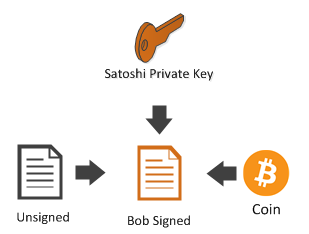
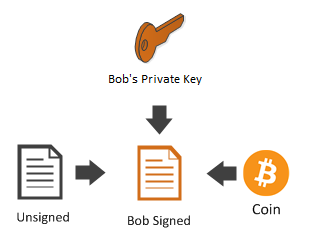
Clarification for multisig transactions
Clarification for multisig transactions

Changed region(s): [[0.3204, 0.2991, 0.699, 0.359]]

diff --git a/other_types_of_ownership/multi_sig.md b/other_types_of_ownership/multi_sig.md
@@ -1,8 +1,8 @@
-## Multi Sig {#multi-sig}
+## Multi Sig {#multi-sig}
 
-It is possible to have shared ownership and control over coins. 
+Bitcoin allows us to have shared ownership and control over coins with multi-signature transactions or multisig for short. 
 
-In order to demonstrate this we will create a ```ScriptPubKey``` that represents an **m-of-n multi sig**. This means that in order to spend the coins, **m** number of private keys will need to sign the spending transaction out of the **n** number of different public keys provided.
+In order to demonstrate this we will create a ```ScriptPubKey``` that represents an **m-of-n multisig**. This means that in order to spend the coins, **m** number of private keys will be needed to sign the spending transaction out of the **n** number of different public keys provided.
 
 Let’s create a multi sig with Bob, Alice and Satoshi, where two of the three of them need to sign a transaction in order to spend a coin.  
 
@@ -17,18 +17,18 @@ var scriptPubKey = PayToMultiSigTemplate
 
 Console.WriteLine(scriptPubKey);
 ```  
-
+Generates this script which you can use as a public key (coin destination address):
 ```
 2 0282213c7172e9dff8a852b436a957c1f55aa1a947f2571585870bfb12c0c15d61 036e9f73ca6929dec6926d8e319506cc4370914cd13d300e83fd9c3dfca3970efb 0324b9185ec3db2f209b620657ce0e9a792472d89911e0ac3fc1e5b5fc2ca7683d 3 OP_CHECKMULTISIG
 ```  
 
 As you can see, the ```scriptPubkey``` has the following form: ```<sigsRequired> <pubkeys…> <pubKeysCount> OP_CHECKMULTISIG```  
 
-The process for signing it is a little more complicated than just calling ```Transaction.Sign```, which does not work for multi sig.
+The process for signing it (in order to be able to spend it) is a little more complicated than just calling ```Transaction.Sign```, which does not work for multisig.
 
 Later we will talk more deeply about the subject but for now let’s use the ```TransactionBuilder``` for signing the transaction.
 
-Imagine the multi-sig ```scriptPubKey``` received a coin in a transaction called ```received```:
+Imagine the multisig ```scriptPubKey``` received a coin in a transaction called ```received```:
 
 ```cs
 var received = new Transaction();
@@ -80,9 +80,9 @@ Transaction bobSigned =
         .SignTransaction(aliceSigned);
 ```  
 
-![](https://i.imgur.com/xaxR9MV.png)  
+![](../assets/bobSigned.png)  
 
-Now, Bob and Alice can combine their signature into one transaction. This transaction will then be valid in terms of it's signature as Bob and Alice have provided two of the signatures from the three owner signatures that were initially provided. The requirements of the 'two-of-three' multi sig have therefore been met.
+Now, Bob and Alice can combine their signature into one transaction. This transaction will then be valid, because two (Bob and Alice) signatures were used from the three (Alice, Bob and Satoshi) signatures that were initially provided. The requirements of the 'two-of-three' multisig have therefore been met. If it wasn't be the case the network would not accept this transaction, because it rejects all unsigned or partially signed transactions by default.
 
 ```cs
 Transaction fullySigned =
@@ -118,9 +118,9 @@ Console.WriteLine(fullySigned);
 }
 
 ```
-Before sending the transaction to the network, examine the need of CombineSignatures() method. Try to compare a full detail of transaction between bobSigned and fullySigned. It will seem both are identical. For this reason, it seems like the CombineSignatures() method is needless because mulit-signing has achieved without the CombineSignatures() method.
+Before sending the transaction to the network, examine the need of CombineSignatures() method: compare the two transactions 'bobSigned' and 'fullySigned' thoroughly. It will seem like they are identical. It seems like the CombineSignatures() method is needless in this case because the transaction got signed properly without the CombineSignatures() method.
 
-Let's look at the case that CombineSignatures() is required:
+Let's look at a case where CombineSignatures() is required:
 ```cs
 TransactionBuilder builderNew = new TransactionBuilder();
 TransactionBuilder builderForAlice = new TransactionBuilder();
@@ -152,9 +152,11 @@ Transaction fullySigned =
                     .CombineSignatures(aliceSigned, bobSigned);
 ```
 
-The transaction is now ready to be sent to the network.
+The transaction is now ready to be sent to the network, but notice that the CombineSignatures() method was critical here, because both the aliceSigned and the bobSigned transactions were only partially signed, therefore not acceptable by the network. CombineSignatures() combined the two partially signed transactions into one fully signed transaction.  
 
-Even if the Bitcoin network supports multi sig as explained here, one question worth asking is: How can you expect a user who has no clue about bitcoin to pay using the Alice/Bob/Satoshi multi-sig as we have done above?
+> Sidenote: there is an inherent difficulty which arises from this situation. You need to send the newly created, unsigned multi-sig transaction to every signer and after their signed it, you also need to collect the partially signed transactions from them and combine them into one, so that you can publish that on the network. This problem is partially solved by the [BIP-0174](https://github.com/bitcoin/bips/blob/master/bip-0174.mediawiki), because it at least standardizes the data format, but you still need to implement your own way to distribute the data between the signing parties.
+
+Although the Bitcoin network supports multisig as explained above, the one question worth asking is: How can you expect a user who has no clue about Bitcoin to pay to a complicated multisig script address containing Alice's, Bob's Satoshi's public keys as we have done?
 
 Don’t you think it would be cool if we could represent such a ```scriptPubKey``` as easily and concisely as a regular Bitcoin Address?
 
